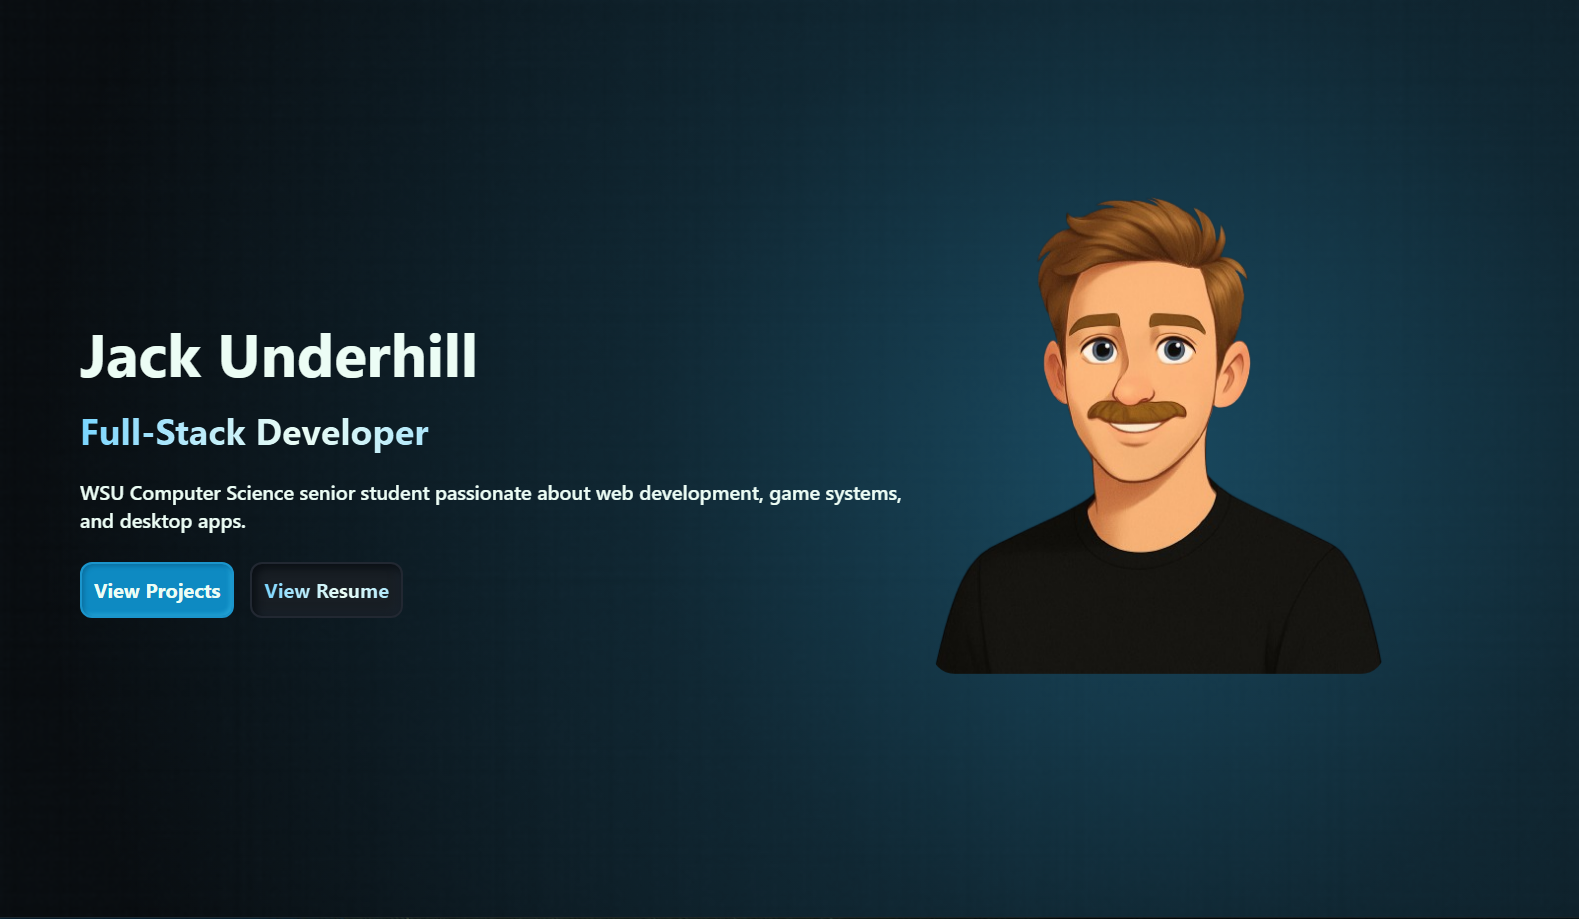
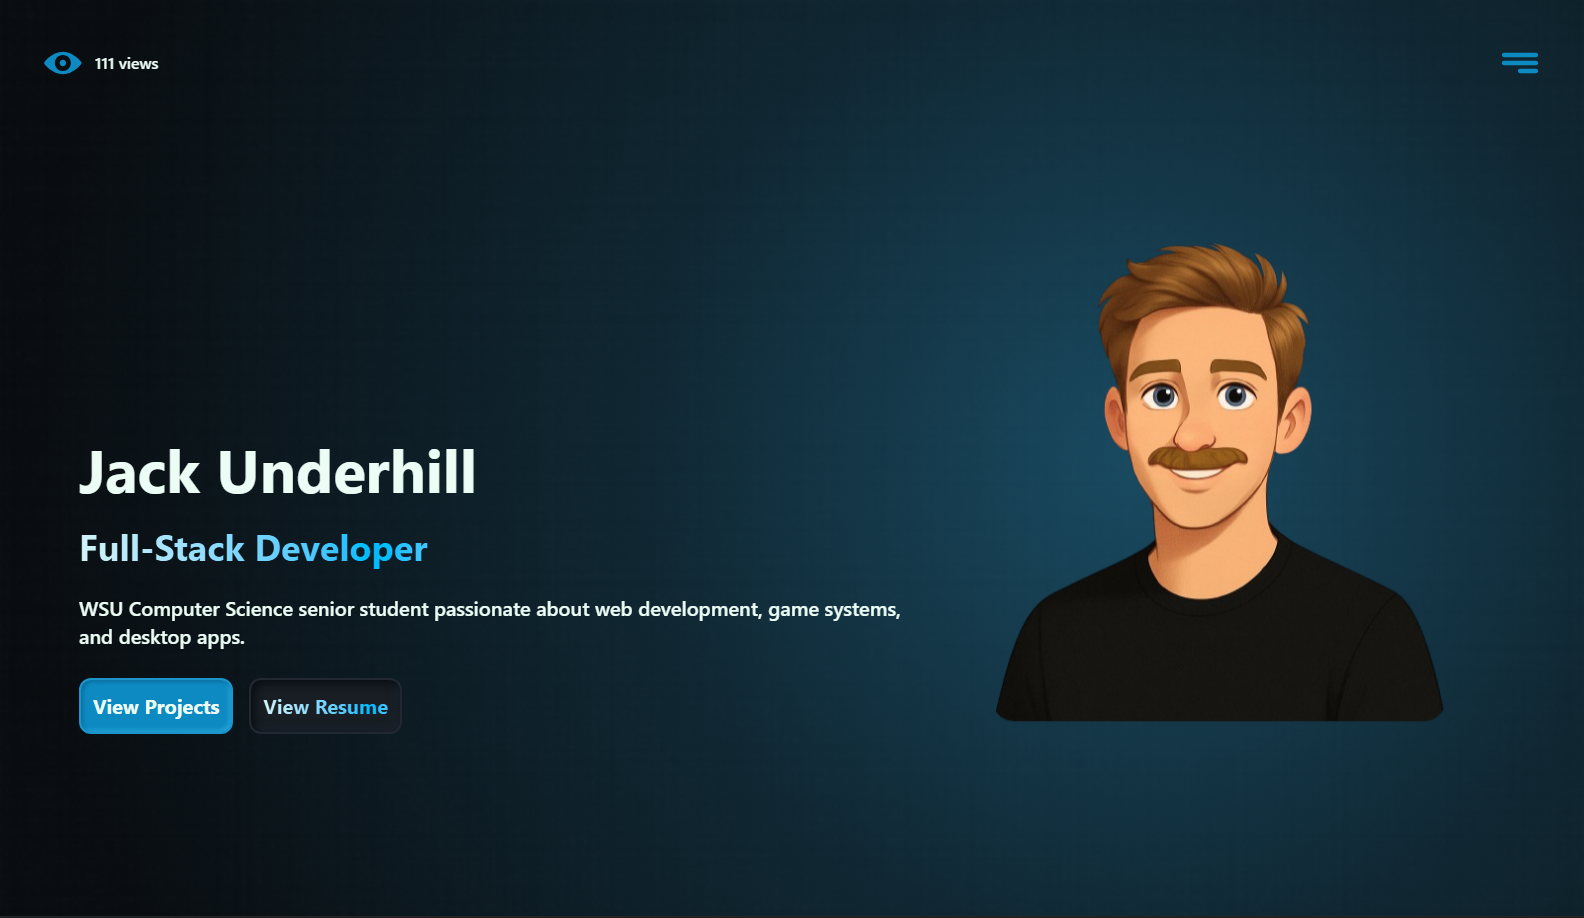
ProjectCard: Bigger Image, Click Counter Overlay

diff --git a/src/components/ProjectCard.jsx b/src/components/ProjectCard.jsx
@@ -3,21 +3,21 @@ import TechTag from './TechTag'
 import clicks from '../assets/clicks.svg'
 
 function ProjectCard({ image, title, desc, link, tags }) {
-    const [visitCount, setVisitCount] = useState(null);
-    const [uniqueCount, setUniqueCount] = useState(null);
+    const [uniqueClicks, setUniqueClicks] = useState(null);
 
-    const extractRepo = () => {
+    const getSafeKey = (url) => {
         try {
-            return new URL(link).pathname.slice(1);
+            return btoa(url);
         } catch {
             return null;
         }
     }
 
     useEffect(() => {
-        const repo = extractRepo();
-        if(!repo) return undefined;
-        fetch(`/.netlify/functions/github-traffic?repo=${repo}`)
+        const key = getSafeKey(link);
+        if(!key) return;
+
+        fetch(`/.netlify/functions/project-click-counter?project=${key}`)
             .then(async res => {
                 if(!res.ok) {
                     const text = await res.text();
@@ -26,10 +26,9 @@ function ProjectCard({ image, title, desc, link, tags }) {
                 return res.json();
             })
             .then(data => {
-                setVisitCount(data.count);
-                setUniqueCount(data.uniques);
+                setUniqueClicks(data.count);
             })
-            .catch(err => console.error("Traffic fetch error:", err));
+            .catch(err => console.error("Click counter fetch error:", err));
     }, [link]);
 
     return (
@@ -37,41 +36,64 @@ function ProjectCard({ image, title, desc, link, tags }) {
             <a
                 href={link}
                 target="_blank"
-                title='View My Portfolio Repo'
-                className='h-full px-8 py-6 bg-card border-2 border-card-border rounded-xl flex flex-col gap-y-4 shadow-[inset_4px_4px_8px_#0a0f14,inset_-4px_-4px_8px_#1a232c] group'
-            >
-                <div className='relative w-full aspect-video rounded-xl'>
-                    <div className="absolute -inset-1 rounded-xl animated-gradient bg-gradient-to-r from-sky-400 via-emerald-50 to-sky-400 blur opacity-0 group-hover:opacity-100 transition duration-500 animate-tilt z-0"/>
-                    <img src={image} alt="Project Card" className='relative z-10 w-full h-auto object-contain rounded-xl' />
-                </div>
+                title='View My Project Link'
+                className='h-full px-2 py-2 bg-card border-2 border-card-border rounded-xl flex flex-col shadow-[inset_4px_4px_8px_#0a0f14,inset_-4px_-4px_8px_#1a232c] group'
+                onClick={() => {
+                    const key = getSafeKey(link);
+                    if(!key) return;
 
-                <div 
-                    className="relative w-fit h-fit flex gap-2 items-center group/image" 
-                    title='User Visit Count' 
-                    data-aos="flip-up"
-                >
-                    <img 
-                        src={clicks} 
-                        alt={`View svg`}
-                        className='h-10 group-hover/image:animate-spin' 
-                    />
-                    <div className='text-md font-semibold text-emerald-50'>
-                        {uniqueCount !== null ? `${uniqueCount} views` : 'Loading ...'}
+                    fetch(`/.netlify/functions/project-click-counter?project=${key}`)
+                        .then(async res => {
+                            if(!res.ok) throw new Error(await res.text());
+                            return res.json();
+                        })
+                        .then(data => {
+                            setUniqueClicks(data.count);
+                        })
+                        .catch(err => console.error("Click increment error:", err));
+                }}
+            >
+                <div className='relative w-full aspect-video rounded-xl group/image'>
+                    {/* Hover shadow animation */}
+                    <div className="absolute -inset-1 rounded-xl animated-gradient bg-gradient-to-r from-sky-400 via-emerald-50 to-sky-400 blur opacity-0 group-hover:opacity-100 transition duration-500 animate-tilt z-0"/>
+                    
+                    {/* Project Image */}
+                    <img src={image} alt="Project Card" className='relative z-10 w-full h-auto object-contain rounded-xl' />
+
+                    {/* Click Counter Overlay */}
+                    <div data-aos="flip-up" className='absolute m-2 py-0.5 px-1 bottom-0 z-20 w-fit h-fit flex items-end-safe justify-end-safe rounded-xl drop-shadow-lg bg-black/60'>
+                        <div 
+                            className="relative w-fit h-fit flex gap-2 items-center" 
+                            title='Project Clicks' 
+                        >
+                            <img 
+                                src={clicks} 
+                                alt={`View svg`}
+                                className='h-10 group-hover/image:animate-spin transition duration-500 ease-in-out' 
+                            />
+                            <div className='text-md font-semibold text-emerald-50'>
+                                {uniqueClicks !== null ? `${uniqueClicks} clicks` : 'Loading ...'}
+                            </div>
+                        </div>
                     </div>
                 </div>
 
-                <div className='text-2xl font-bold text-emerald-50'>
-                    <span className='animated-gradient bg-gradient-to-r from-sky-400 via-emerald-50 to-sky-400 text-transparent bg-clip-text'>{title}</span>
-                </div>
+                <div className='px-8 py-6 flex flex-col gap-y-4 text-sm md:text-md lg:text-xl'>
+                    <div className='text-2xl font-bold text-emerald-50'>
+                        <span className='animated-gradient bg-gradient-to-r from-sky-400 via-emerald-50 to-sky-400 text-transparent bg-clip-text'>
+                            {title}
+                        </span>
+                    </div>
 
-                <div className='text-xl font-semibold text-emerald-50'>
-                    {desc}
-                </div>
+                    <div className='text-xl font-semibold text-emerald-50'>
+                        {desc}
+                    </div>
 
-                <TechTag
-                    className='px-3 py-1 text-xl font-semibold rounded-lg bg-card-att text-emerald-50'
-                    tags={tags}
-                />
+                    <TechTag
+                        className='px-3 py-1 font-semibold rounded-lg bg-card-att text-emerald-50'
+                        tags={tags}
+                    />
+                </div>
             </a>
         </div>
     )

diff --git a/netlify/functions/project-click-counter.js b/netlify/functions/project-click-counter.js
@@ -1,0 +1,46 @@
+import { Redis } from "@upstash/redis";
+
+const redis = new Redis({
+    url: process.env.UPSTASH_REDIS_REST_URL,
+    token: process.env.UPSTASH_REDIS_REST_TOKEN,
+});
+
+export default async (request, context) => {
+    try {
+        const url = new URL(request.url);
+        const projectEncoded = url.searchParams.get("project"); 
+        const project = Buffer.from(projectEncoded, "base64").toString("utf-8"); 
+        const ip = request.headers.get("x-nf-client-connection-ip") || "unknown";
+
+        if(!project) {
+            return new Response(JSON.stringify({error: `Missing 'repo' query parameter`}), { 
+                status: 400,
+                headers: { "Content-Type": "application/json" },
+            });
+        }
+
+        const ipKey = `clicked:${project}:${ip}`;
+        const clickKey = `clicks:${project}`;
+
+        let counted = false;
+
+        const alreadyVisited = await redis.get(ipKey);
+        if(!alreadyVisited) {
+            await redis.incr(clickKey);
+            await redis.set(ipKey, "true", { ex: 60 * 60 * 24 });
+            counted = true;
+        }
+
+        const total = await redis.get(clickKey);
+
+        return new Response(JSON.stringify({ project, count: total ?? 0, counted }), {
+            status: 200,
+            headers: {
+                "Content-Type": "application/json",
+                "Access-Control-Allow-Origin": "*",
+            },
+        })
+    } catch (error) {
+        return new Response(`Function Error: ${error.toString()}`, { status: 500 });
+    }
+};

diff --git a/src/components/VisitCount.jsx b/src/components/VisitCount.jsx
@@ -1,6 +1,6 @@
 import { useEffect, useState } from 'react';
 
-import clicks from '../assets/clicks.svg'
+import views from '../assets/views.svg'
 
 function VisitCount() {
   const [visitCount, setVisitCount] = useState(null);
@@ -20,7 +20,7 @@ function VisitCount() {
         data-aos="flip-up"
       >
         <img 
-            src={clicks} 
+            src={views} 
             alt={`View svg`}
             className='h-full group-hover:animate-spin' 
         />
